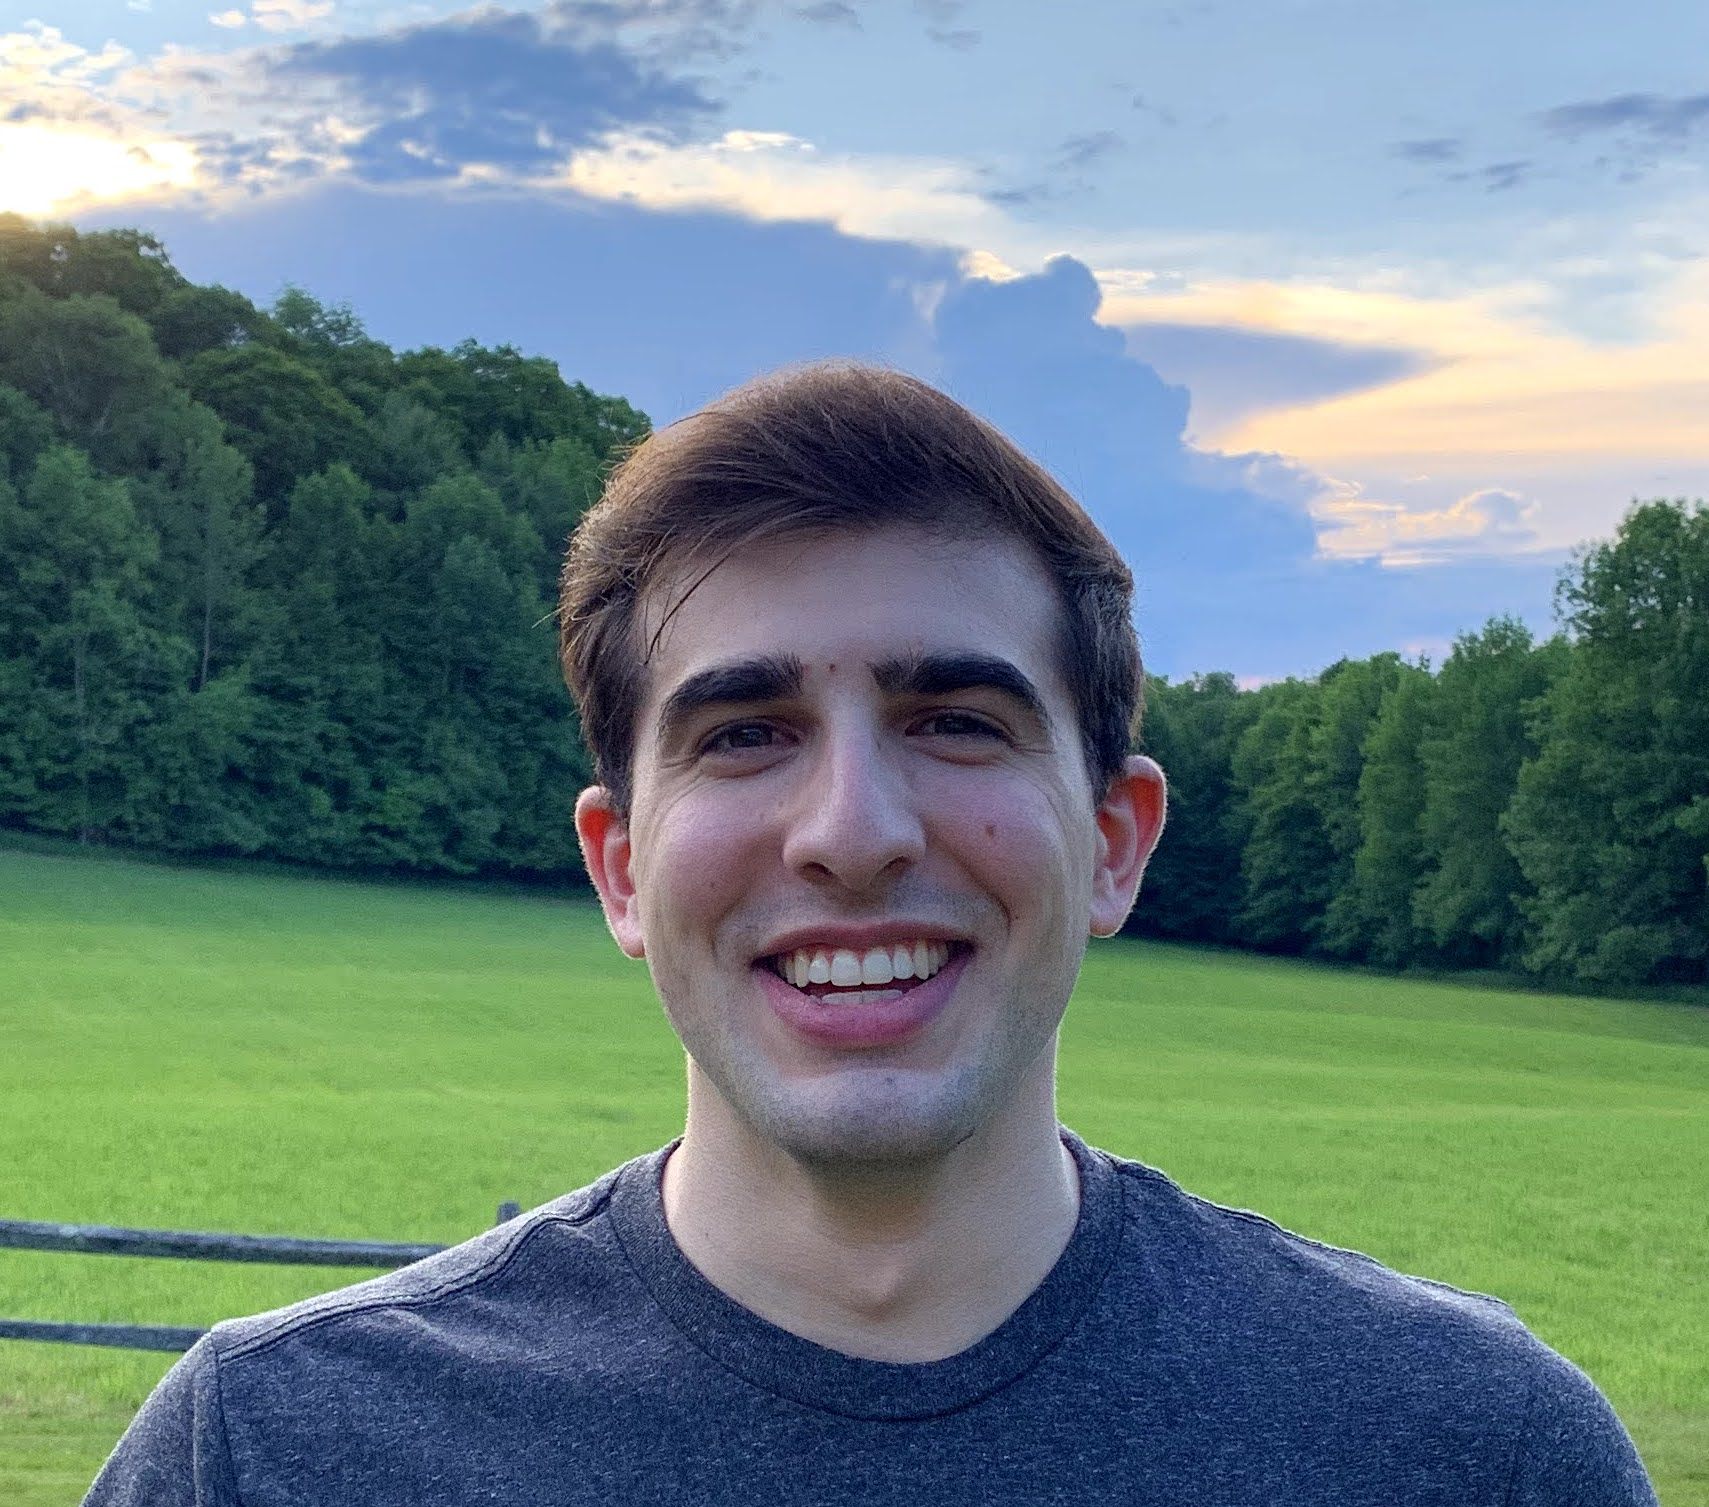
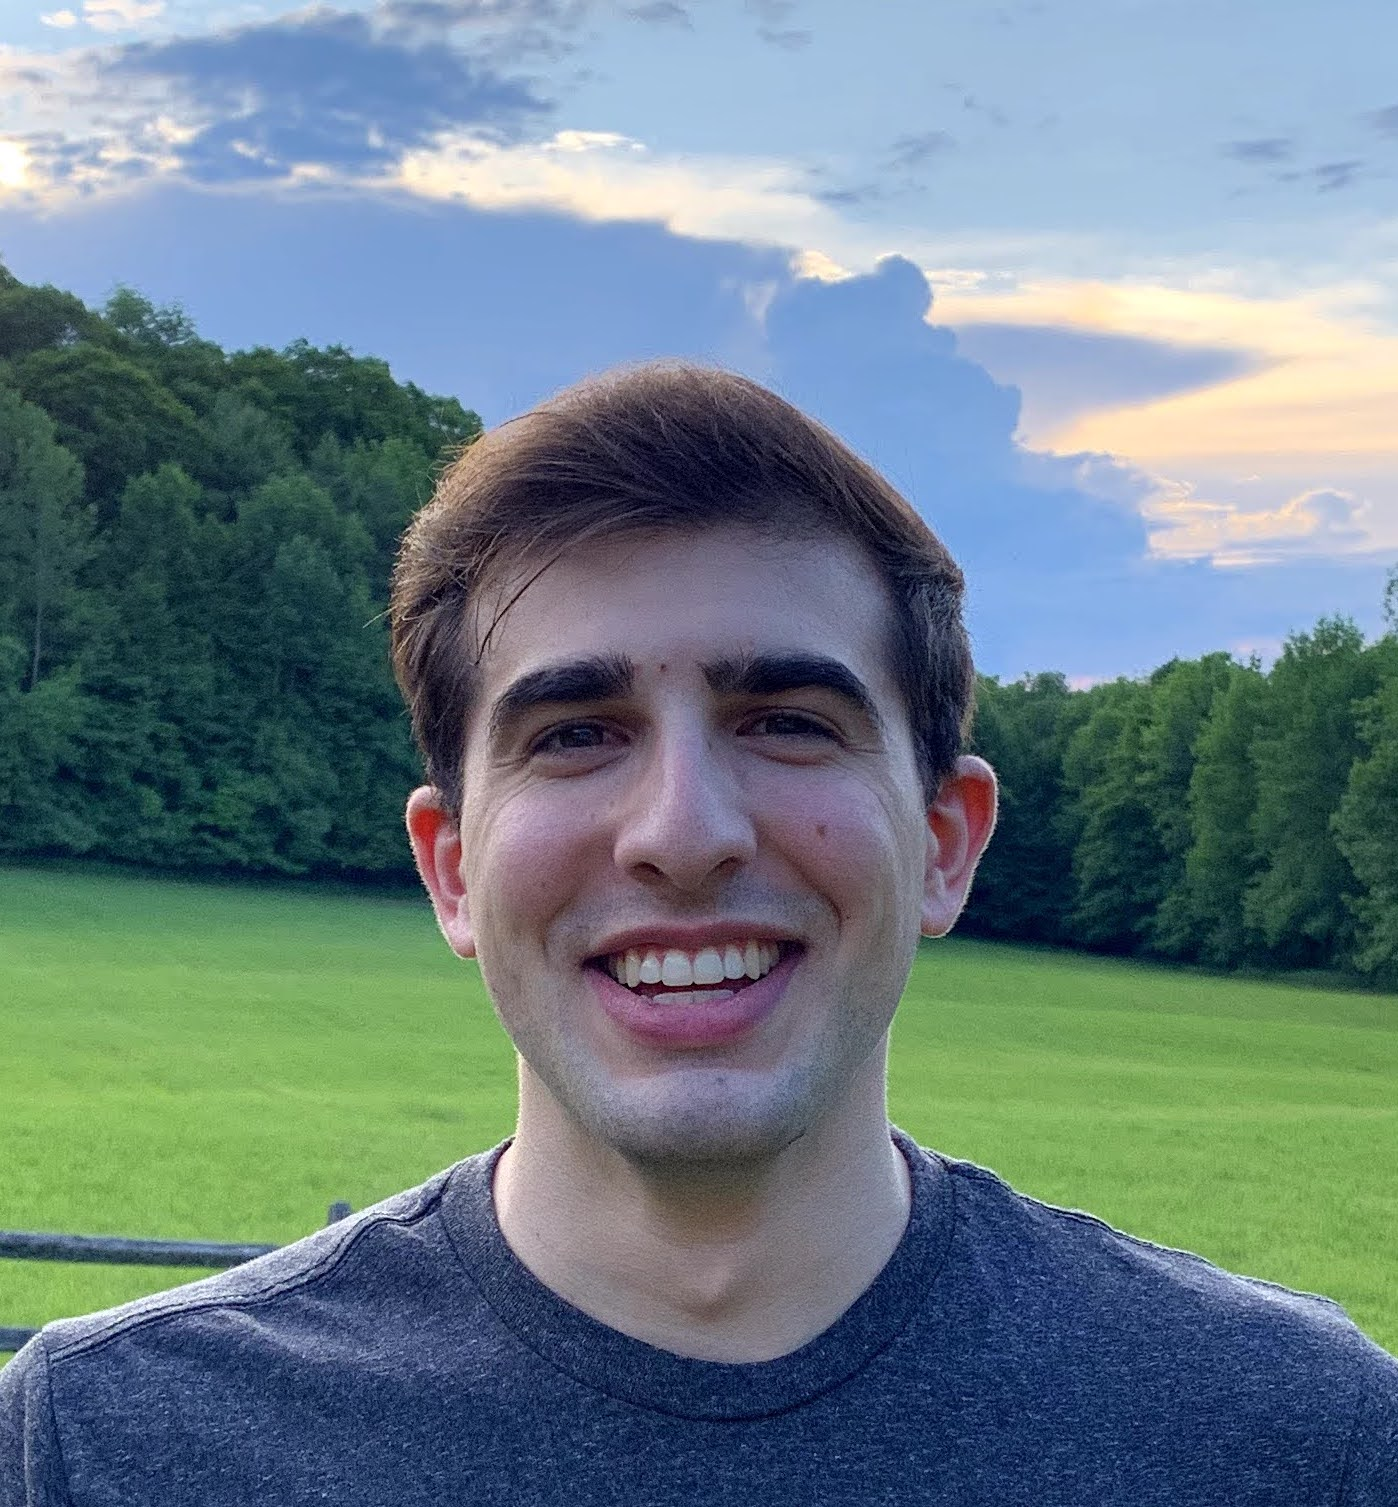
x

diff --git a/_build/css/index.css b/_build/css/index.css
@@ -5,7 +5,7 @@
 }
 
 #portrait {
-    height: 128px;
+    height: 256px;
     border-radius: 5%;
 }
 
@@ -41,6 +41,9 @@ a.pgp-info:hover {
 }
 
 @media all and (max-width: 739px) {
+    #portrait {
+        height: 128px;
+    }
     #contact-left {
         padding-right: 5px;
     }

diff --git a/static/css/index.css b/static/css/index.css
@@ -5,7 +5,7 @@
 }
 
 #portrait {
-    height: 128px;
+    height: 256px;
     border-radius: 5%;
 }
 
@@ -41,6 +41,9 @@ a.pgp-info:hover {
 }
 
 @media all and (max-width: 739px) {
+    #portrait {
+        height: 128px;
+    }
     #contact-left {
         padding-right: 5px;
     }
